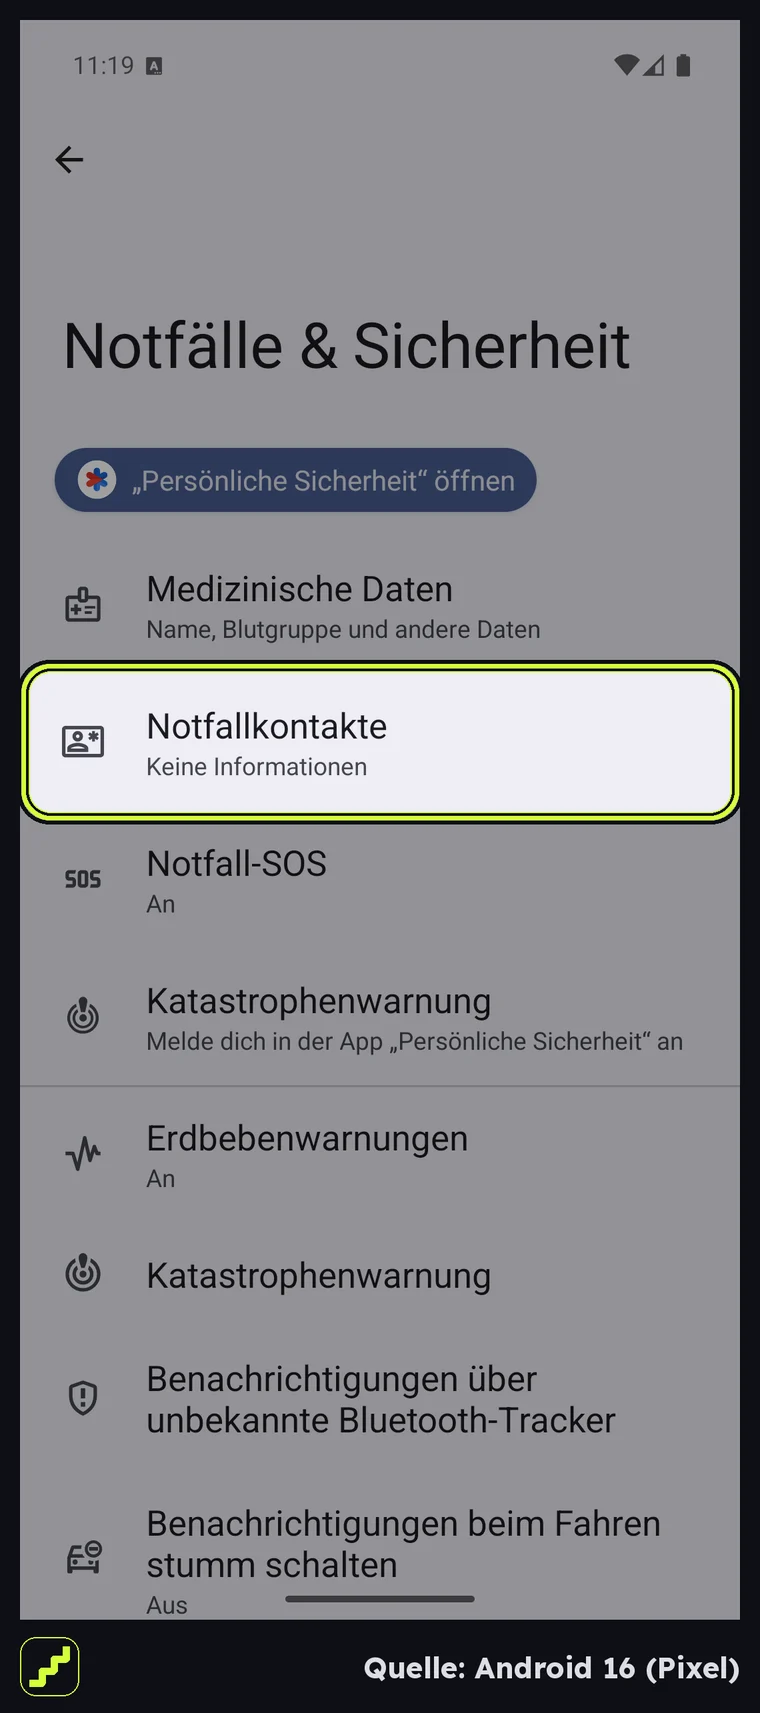
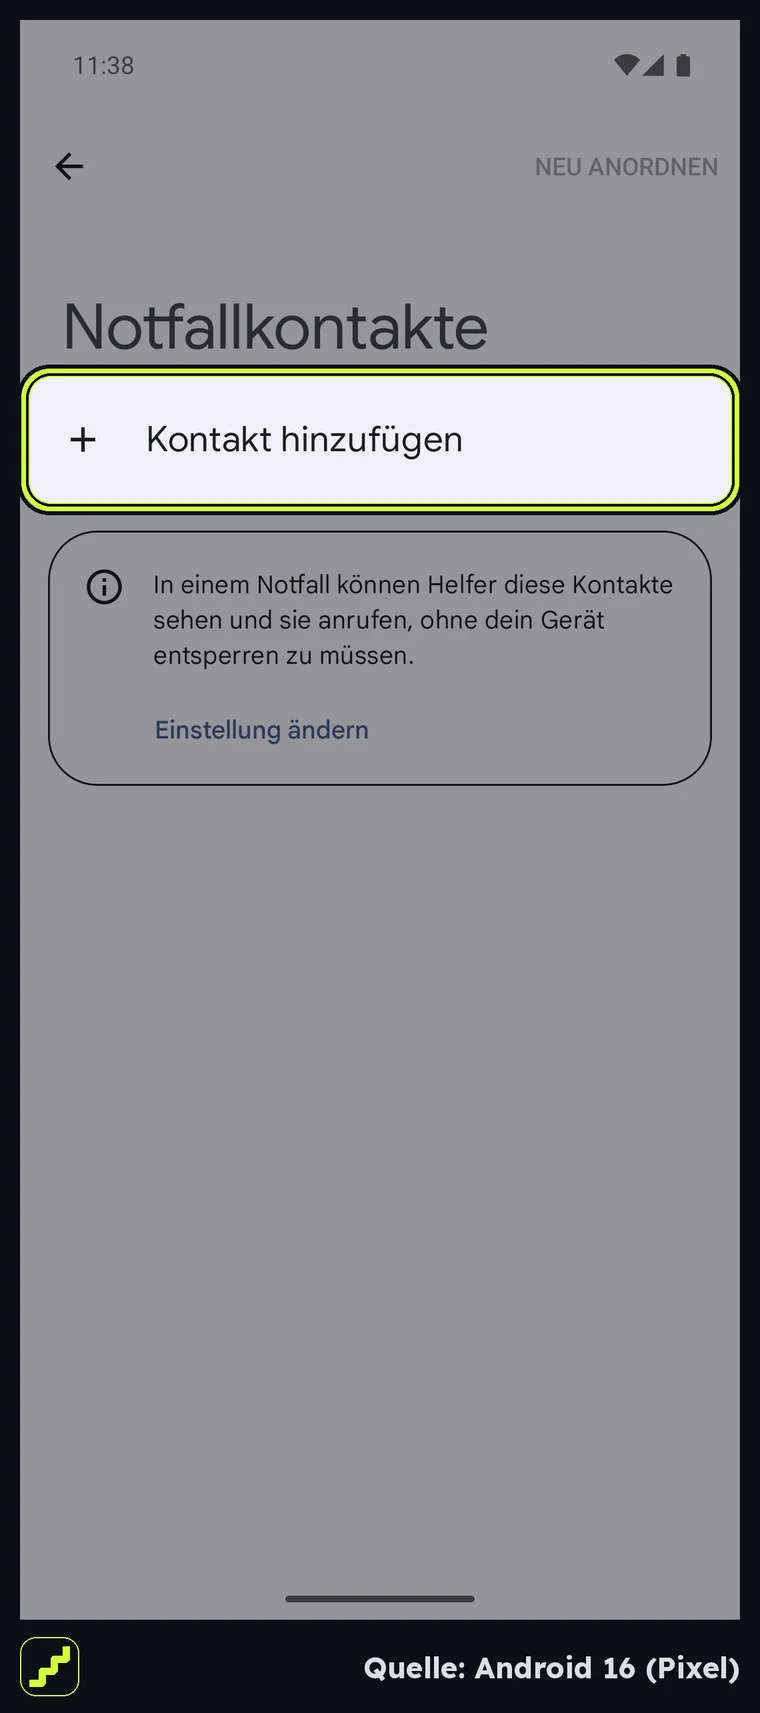
Android (Pixel): SOS-Seite und Notfallpass-Formular bebildert
Claude-Session: https://claude.ai/code/session_01CGfmPmrn99yNmknkkuHQEm

diff --git a/src/seed/guides/gesundheit.ts b/src/seed/guides/gesundheit.ts
@@ -208,10 +208,10 @@ export const gesundheit: Guide[] = [
           },
           {
             title: "Medizinische Infos eintragen",
-            text: "Tippen Sie auf „Medizinische Daten“. Tragen Sie Blutgruppe, Allergien, Medikamente und Erkrankungen ein. Tippen Sie auf „Speichern“.",
+            text: "Tippen Sie auf „Medizinische Daten“. Tippen Sie auf „Mehr“, damit alle Felder erscheinen. Tippen Sie nacheinander auf „Blutgruppe“ (1), „Allergien“ (2), „Medikamente“ und „Medizinische Informationen“ und tragen Sie Ihre Angaben ein.",
             image: {
-              src: "/screenshots/notfallpass-handy/android-medizinische-daten.webp",
-              alt: "Seite „Notfälle & Sicherheit“. Der Eintrag „Medizinische Daten“ ist markiert.",
+              src: "/screenshots/notfallpass-handy/android-medizinische-felder.webp",
+              alt: "Seite „Medizinische Daten“. Die Felder „Blutgruppe“ (1) und „Allergien“ (2) sind markiert.",
               credit: "Android 16 (Pixel)",
             },
           },
@@ -220,13 +220,18 @@ export const gesundheit: Guide[] = [
             text: "Gehen Sie zurück und tippen Sie auf „Notfallkontakte“. Tippen Sie auf „Kontakt hinzufügen“ und wählen Sie Ihren Angehörigen aus.",
             image: {
               src: "/screenshots/notfallpass-handy/android-notfallkontakte.webp",
-              alt: "Seite „Notfälle & Sicherheit“. Der Eintrag „Notfallkontakte“ ist markiert.",
+              alt: "Seite „Notfallkontakte“. Der Eintrag „Kontakt hinzufügen“ ist markiert.",
               credit: "Android 16 (Pixel)",
             },
           },
           {
             title: "Auf dem Sperrbildschirm zeigen",
-            text: "Schalten Sie „Auf Sperrbildschirm anzeigen“ ein, falls dieser Schalter erscheint. Helfer finden Ihre Infos dann auf dem Sperrbildschirm über „Notruf“ und „Notfallinformationen“.",
+            text: "Tippen Sie unten auf „Einstellung ändern“. Prüfen Sie, dass „Anzeigen, wenn gesperrt“ eingeschaltet ist. Helfer finden Ihre Infos dann auf dem Sperrbildschirm über „Notruf“ und „Notfallinformationen“.",
+            image: {
+              src: "/screenshots/notfallpass-handy/android-sperrbildschirm.webp",
+              alt: "Seite „Zugriff auf Notfallinformationen“. Der Schalter „Anzeigen, wenn gesperrt“ ist markiert.",
+              credit: "Android 16 (Pixel)",
+            },
           },
         ],
       },

diff --git a/src/seed/guides/sicherheit.ts b/src/seed/guides/sicherheit.ts
@@ -568,11 +568,21 @@ export const sicherheit: Guide[] = [
           },
           {
             title: "Funktion einschalten",
-            text: "Schalten Sie „Notfall-SOS verwenden“ ein. Ab jetzt gilt: Drücken Sie fünfmal schnell die Ein/Aus-Taste, ruft das Handy die 112 an.",
+            text: "Bei „Notfall-SOS“ steht meist schon „An“. Auf der Seite „Notfall-SOS“ prüfen Sie unter „Notfallaktionen“, dass der Schalter „Rettungsdienst anrufen“ eingeschaltet ist. Ab jetzt gilt: Drücken Sie fünfmal oder öfter schnell die Ein/Aus-Taste, ruft das Handy die 112 an.",
+            image: {
+              src: "/screenshots/notruf-sos-einrichten/android-rettungsdienst.webp",
+              alt: "Seite „Notfall-SOS“. Unter „Notfallaktionen“ ist der Schalter „Rettungsdienst anrufen“ markiert.",
+              credit: "Android 16 (Pixel)",
+            },
           },
           {
             title: "Notfallkontakte informieren (optional)",
-            text: "Darunter können Sie einstellen, dass Ihre Notfallkontakte eine Nachricht mit Ihrem Standort bekommen.",
+            text: "Darunter können Sie „Informationen mit Notfallkontakten teilen“ einschalten. Dann bekommen Ihre Notfallkontakte eine Nachricht mit Ihrem Standort. Dafür müssen Sie mit Ihrem Google-Konto angemeldet sein.",
+            image: {
+              src: "/screenshots/notruf-sos-einrichten/android-kontakte-teilen.webp",
+              alt: "Seite „Notfall-SOS“. Die Einstellung „Informationen mit Notfallkontakten teilen“ ist markiert.",
+              credit: "Android 16 (Pixel)",
+            },
             warning: "Probieren Sie die Funktion nicht aus – sonst ruft das Handy wirklich die 112. Bei einem versehentlichen Anruf: Nicht auflegen, sondern kurz sagen, dass es ein Versehen war.",
           },
         ],
